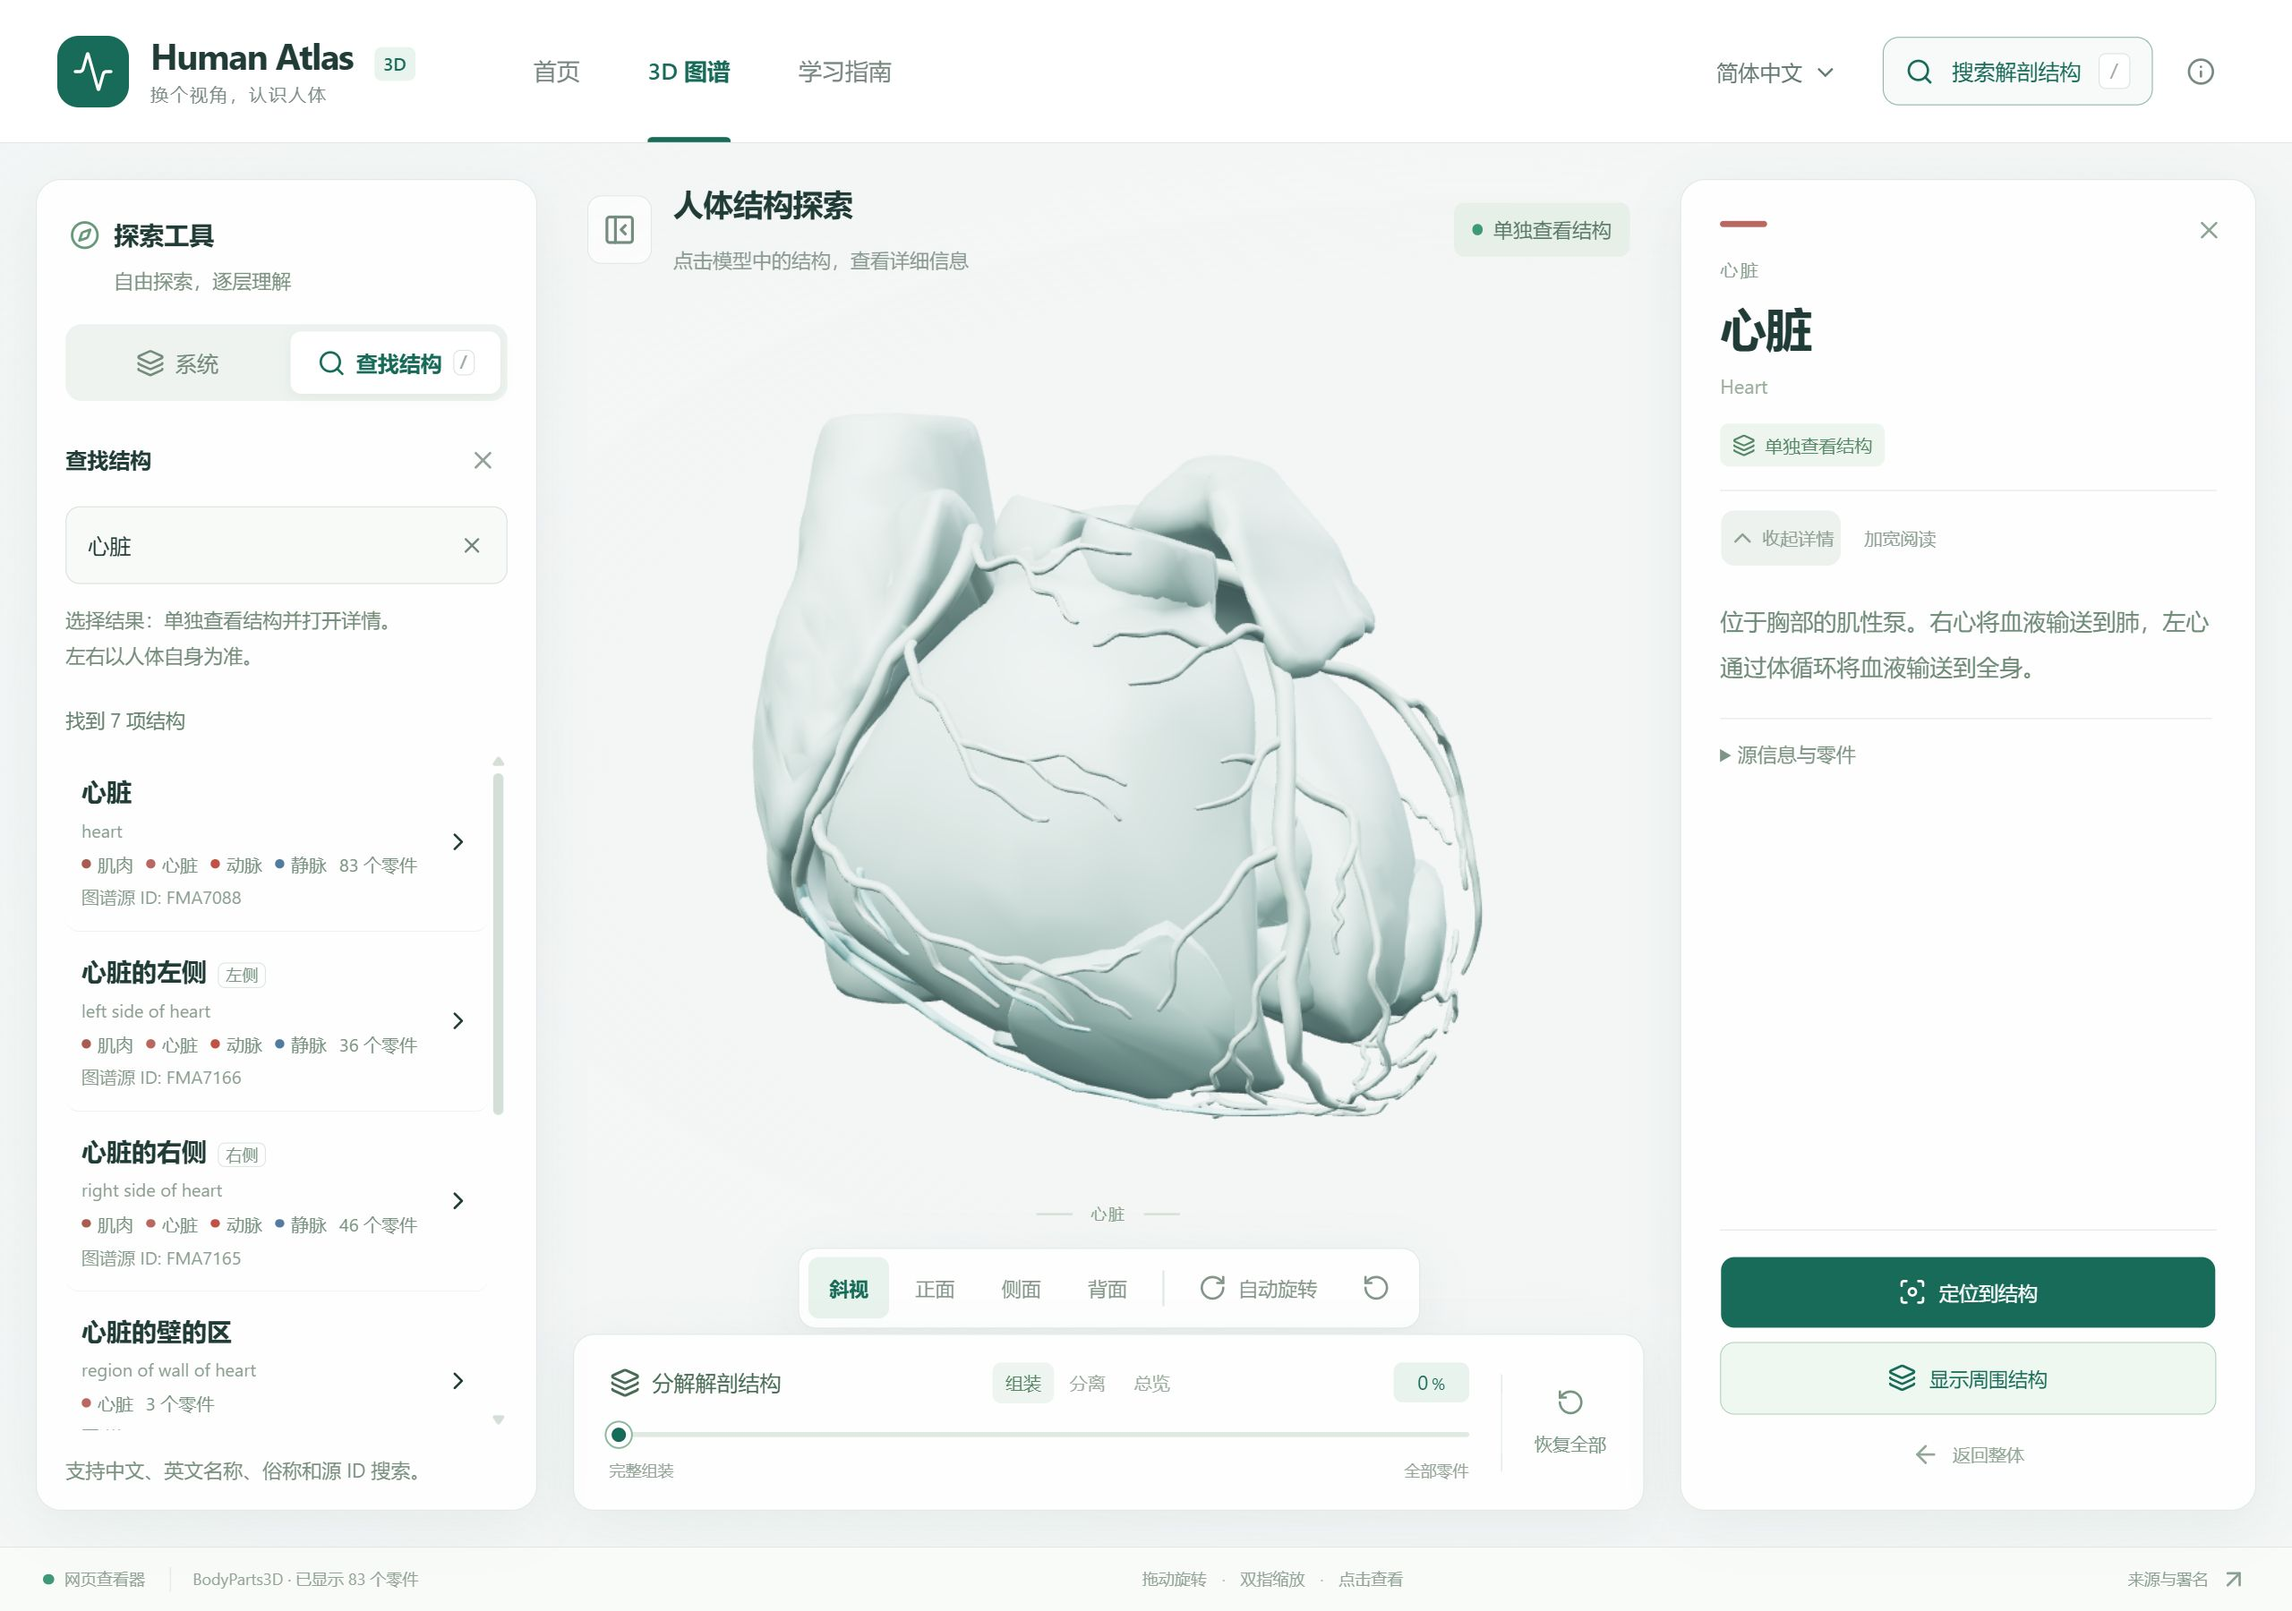
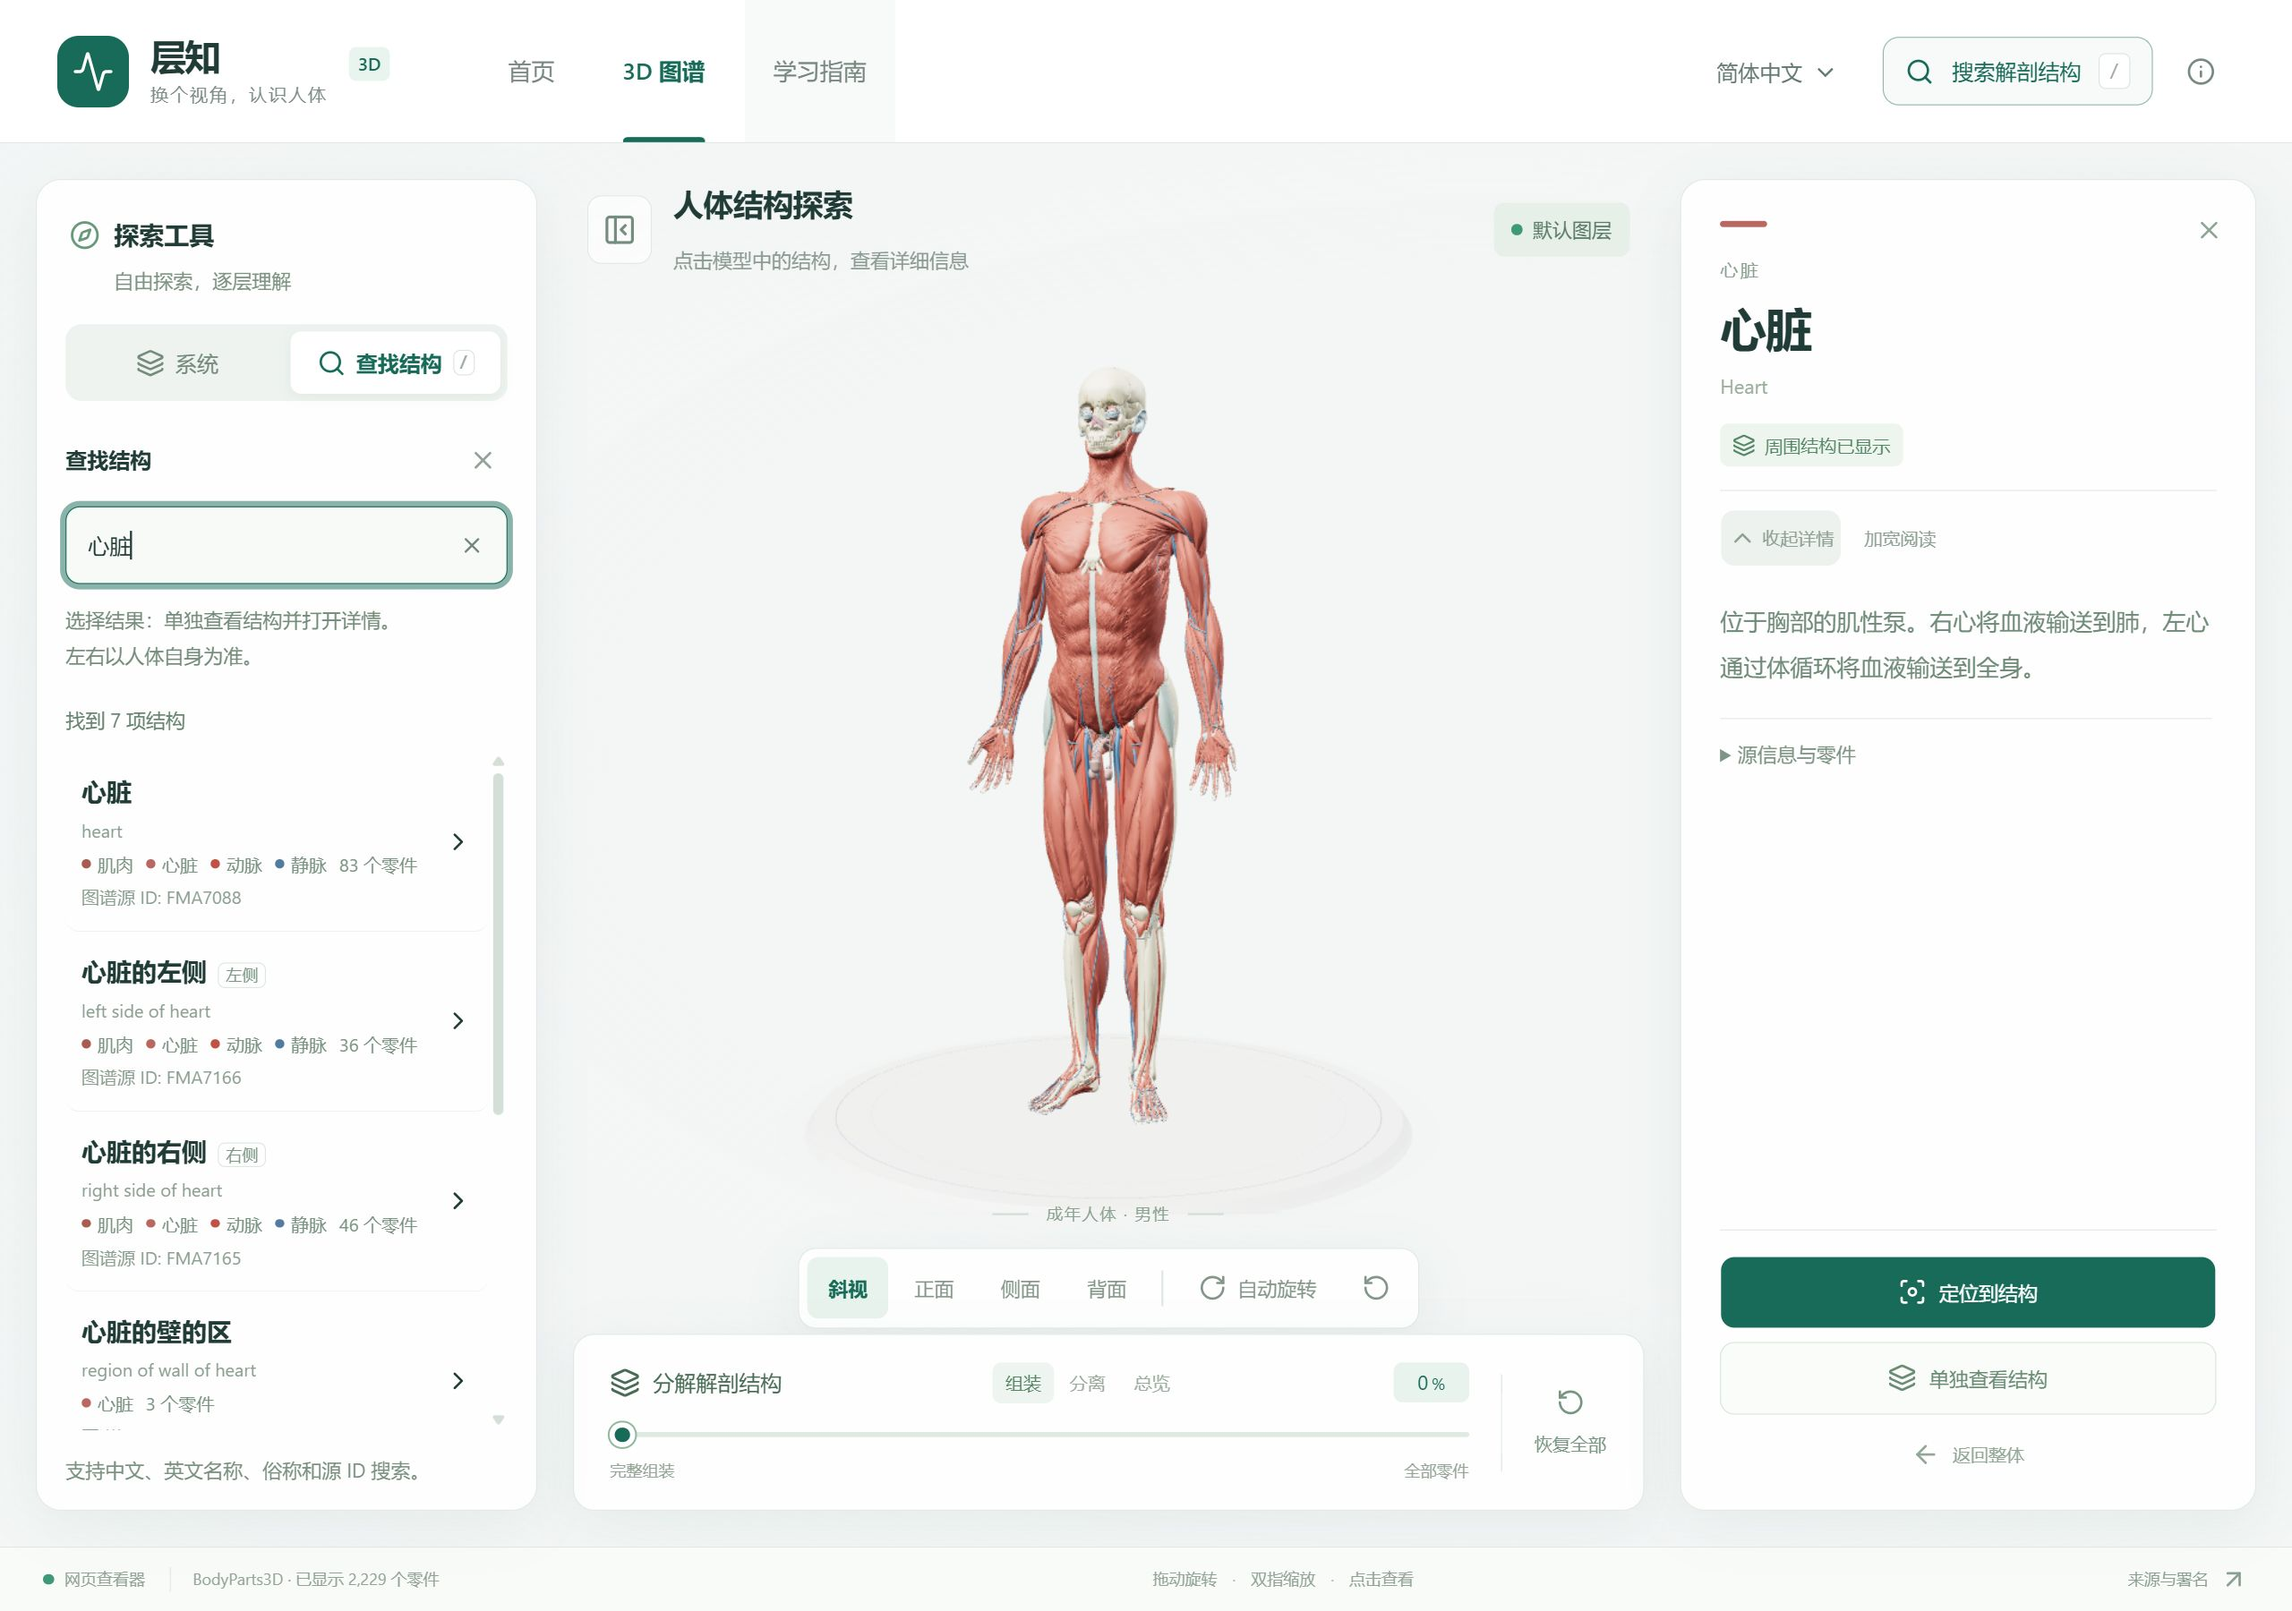
统一更名为层知 Anatolume，更新界面、桌面与全平台发布

diff --git a/app/page.tsx b/app/page.tsx
@@ -16,7 +16,7 @@ import {
   LANGUAGE_STORAGE_KEY,
   type Locale,
 } from "../client/i18n";
-import { openExternal, runtimeInfo } from "../client/platform";
+import { openExternal, runtimeInfo, setAppTitle } from "../client/platform";
 import { registerAtlasTools } from "./core/agent-tools";
 import { staticAssetUrl } from "./core/static-asset";
 import { anatomySearchIndex, matchedSearchAlias, type SearchEntry } from "./core/anatomy-search";
@@ -102,6 +102,8 @@ export default function Home() {
   const sn = (system: (typeof SYSTEMS)[number]) => systemName(system.id, system.name, locale);
   useEffect(() => {
     document.documentElement.lang = locale;
+    const title = locale === "zh-CN" ? "层知 · Anatolume — 三维人体图谱" : "Anatolume — 3D Anatomy Explorer";
+    void setAppTitle(title).catch(() => { /* The browser title remains available if the native bridge is unavailable. */ });
     try {
       localStorage.setItem(LANGUAGE_STORAGE_KEY, locale);
     } catch {
@@ -396,7 +398,7 @@ export default function Home() {
       <header className="app-header">
         <button className="brand" onClick={goHome} aria-label={t("Go to homepage")}>
           <span className="brand-mark"><Activity size={24} strokeWidth={1.7} /></span>
-          <span className="brand-copy"><strong>Human Atlas</strong><small>{t("A new perspective on anatomy")}</small></span>
+          <span className="brand-copy"><strong>{t("Anatolume")}</strong><small>{t("A new perspective on anatomy")}</small></span>
           <span className="brand-edition">3D</span>
         </button>
         <nav className="primary-nav" aria-label={t("Main navigation")}>

diff --git a/web/index.html b/web/index.html
@@ -1,1 +1,1 @@
-<!doctype html><html lang="en" ><head><meta charset="UTF-8"/><meta name="viewport" content="width=device-width,initial-scale=1,viewport-fit=cover"/><meta name="theme-color" content="#f3f4f4"/><meta name="description" content="An interactive atlas of the human body. Explore named anatomical structures, reveal organ systems, and inspect individual parts in 3D."/><title>Human Atlas</title><link rel="icon" href="/favicon.svg"/></head><body><div id="root"></div><script type="module" src="/main.tsx"></script></body></html>
+<!doctype html><html lang="en" ><head><meta charset="UTF-8"/><meta name="viewport" content="width=device-width,initial-scale=1,viewport-fit=cover"/><meta name="theme-color" content="#f3f4f4"/><meta name="description" content="An interactive atlas of the human body. Explore named anatomical structures, reveal organ systems, and inspect individual parts in 3D."/><title>层知 · Anatolume — 三维人体图谱</title><link rel="icon" href="/favicon.svg"/></head><body><div id="root"></div><script type="module" src="/main.tsx"></script></body></html>

diff --git a/client/platform/index.ts b/client/platform/index.ts
@@ -1,7 +1,16 @@
 import { isTauri } from "@tauri-apps/api/core";
+import { version } from "../../package.json";
 
 export function runtimeInfo() {
-  return { native: isTauri(), version: "0.1.0" };
+  return { native: isTauri(), version };
+}
+
+export async function setAppTitle(title: string) {
+  document.title = title;
+  if (isTauri()) {
+    const { getCurrentWindow } = await import("@tauri-apps/api/window");
+    await getCurrentWindow().setTitle(title);
+  }
 }
 
 export async function openExternal(url: string) {

diff --git a/client/i18n/index.ts b/client/i18n/index.ts
@@ -6,8 +6,10 @@ const normalizedTerms = new Map(
 );
 
 export type Locale = "zh-CN" | "en";
+// Stable keys preserve preferences when upgrading to Anatolume.
 export const LANGUAGE_STORAGE_KEY = "human-atlas.language";
 export const UI_ZH: Record<string, string> = {
+  Anatolume: "层知",
   "Go to homepage": "返回首页",
   "A new perspective on anatomy": "换个视角，认识人体",
   "Main navigation": "主导航",

diff --git a/src-tauri/src/lib.rs b/src-tauri/src/lib.rs
@@ -20,6 +20,6 @@ pub fn run() {
             Ok(())
         })
         .run(tauri::generate_context!())
-        .expect("Could not start Human Atlas");
+        .expect("Could not start Anatolume");
 }
 use tauri::Manager;

diff --git a/src-tauri/src/main.rs b/src-tauri/src/main.rs
@@ -1,5 +1,5 @@
 #![cfg_attr(not(debug_assertions), windows_subsystem = "windows")]
 
 fn main() {
-    human_atlas_lib::run()
+    anatolume_lib::run()
 }

diff --git a/README.md b/README.md
@@ -52,7 +52,7 @@
 
 </details>
 
-<sub>截图来自当前源码界面，仍显示旧名称 Human Atlas；程序内名称将在后续更新。在线演示与已发布安装包的界面以各自版本为准。</sub>
+<sub>截图来自更名后的真实应用界面。在线演示与已发布安装包的界面以各自版本为准。</sub>
 
 ## 核心体验
 
@@ -78,19 +78,19 @@
 | **网页** | 浏览器直接访问；Web ZIP 可用于自行部署。 |
 | **Android** | 暂未提供安装包，可使用网页版。 |
 
-> **更名进度：** README 已采用「层知 · Anatolume」。现有仓库地址、程序界面与发布包仍沿用 Human Atlas，下载时请按旧名称查找。
+> 应用现采用「层知 · Anatolume」。新版本发布包使用 Anatolume 文件名；历史版本仍使用旧名称，仓库地址沿用现有地址。
 
 <details>
 <summary><strong>安装说明与发布文件</strong></summary>
 
 | 文件 | 说明 |
 | --- | --- |
-| `Human-Atlas_<版本号>_x64-setup.exe` | Windows 安装版，按当前用户安装。 |
-| `Human-Atlas_<版本号>_Windows-x64-portable.zip` | Windows 便携版，解压运行 `Human-Atlas.exe`。 |
-| `Human-Atlas_<版本号>_macOS-universal.dmg` | macOS 通用安装包。 |
-| `Human-Atlas_<版本号>_Web.zip` | 完整静态页面与模型，部署后通过 HTTP/HTTPS 访问。 |
+| `Anatolume_<版本号>_x64-setup.exe` | Windows 安装版，按当前用户安装。 |
+| `Anatolume_<版本号>_Windows-x64-portable.zip` | Windows 便携版，解压运行 `Anatolume.exe`。 |
+| `Anatolume_<版本号>_macOS-universal.dmg` | macOS 通用安装包。 |
+| `Anatolume_<版本号>_Web.zip` | 完整静态页面与模型，部署后通过 HTTP/HTTPS 访问。 |
 
-- **Windows：** 需要 WebView2。已安装运行时时可离线安装；缺少运行时时，安装程序会联网下载。便携版需要事先安装运行时。安装后从开始菜单启动 **Human Atlas**。
+- **Windows：** 需要 WebView2。已安装运行时时可离线安装；缺少运行时时，安装程序会联网下载。便携版需要事先安装运行时。安装后从开始菜单启动 **Anatolume**。
 - **macOS：** 当前使用 ad-hoc 签名，尚未经过 Apple 公证；首次打开可能需要在“系统设置 → 隐私与安全性”中允许。
 - **安装提示：** Windows 测试版尚未签名，可能显示未知发布者提示。每个自动发布的版本提供 `SHA256SUMS` 和 `BUILD-REPORT.md`。
 - **离线范围：** 桌面模型随包提供；查看外部数据来源和参考资料需要联网。语言偏好与最近探索记录保存在本机。
@@ -226,7 +226,7 @@ Explore **2,234 selectable meshes**, **15 anatomical systems**, and **3,432 name
 
 [Try online](https://human-atlas-seven.vercel.app) · [Download](https://github.com/isunky/human-atlas/releases) · [Developer guide](client/README.md)
 
-The README now uses the new name. Existing application screens, release filenames and repository URLs still use **Human Atlas** while the rename is in progress.
+The application is named **层知** in Chinese and **Anatolume** in English. New release packages use Anatolume filenames; historical releases and repository URLs retain their original names.
 
 Based on [Human Atlas by ashemag](https://github.com/ashemag/human-atlas). Application code is licensed under [MIT](LICENSE); BodyParts3D data is licensed under **CC BY 4.0**, with credits and adaptations in [ATTRIBUTION.md](public/ATTRIBUTION.md). Chinese terminology and added learning content have not been professionally reviewed. This project is for education and exploration, not clinical use.
 

diff --git a/docs/RELEASE.md b/docs/RELEASE.md
@@ -54,10 +54,10 @@ gh workflow run ci.yml --repo isunky/human-atlas --ref main -f bump=minor
 
 | 文件 | 使用方式 |
 | --- | --- |
-| `Human-Atlas_X.Y.Z_x64-setup.exe` | Windows x64 安装版；缺少 WebView2 时联网下载运行时 |
-| `Human-Atlas_X.Y.Z_Windows-x64-portable.zip` | 解压运行 Human-Atlas.exe；需要已安装 WebView2；设置仍保存在本机用户目录 |
-| `Human-Atlas_X.Y.Z_macOS-universal.dmg` | macOS 11+，兼容 Intel 和 Apple Silicon；拖入 Applications |
-| `Human-Atlas_X.Y.Z_Web.zip` | 解压部署到 HTTP/HTTPS 静态服务器，支持根目录和子目录 |
+| `Anatolume_X.Y.Z_x64-setup.exe` | Windows x64 安装版；缺少 WebView2 时联网下载运行时 |
+| `Anatolume_X.Y.Z_Windows-x64-portable.zip` | 解压运行 Anatolume.exe；需要已安装 WebView2；设置仍保存在本机用户目录 |
+| `Anatolume_X.Y.Z_macOS-universal.dmg` | macOS 11+，兼容 Intel 和 Apple Silicon；拖入 Applications |
+| `Anatolume_X.Y.Z_Web.zip` | 解压部署到 HTTP/HTTPS 静态服务器，支持根目录和子目录 |
 | `SHA256SUMS` | 四个发布包的 SHA256 校验值 |
 | `BUILD-REPORT.md` | 版本、源码、构建运行、平台要求及 SHA256 |
 

diff --git a/client/README.md b/client/README.md
@@ -1,4 +1,6 @@
-# 客户端开发
+# 层知 · Anatolume 客户端开发
+
+中文界面品牌为「层知」，英文界面与桌面安装名称为「Anatolume」。标题随界面语言切换；网页及桌面版本显示读取 npm 项目版本，随发布流水线同步。为兼容旧版本升级，应用标识 `io.github.isunky.humanatlas` 与既有本机存储键继续沿用，保留语言偏好和最近浏览记录。
 
 ## 目录边界
 
